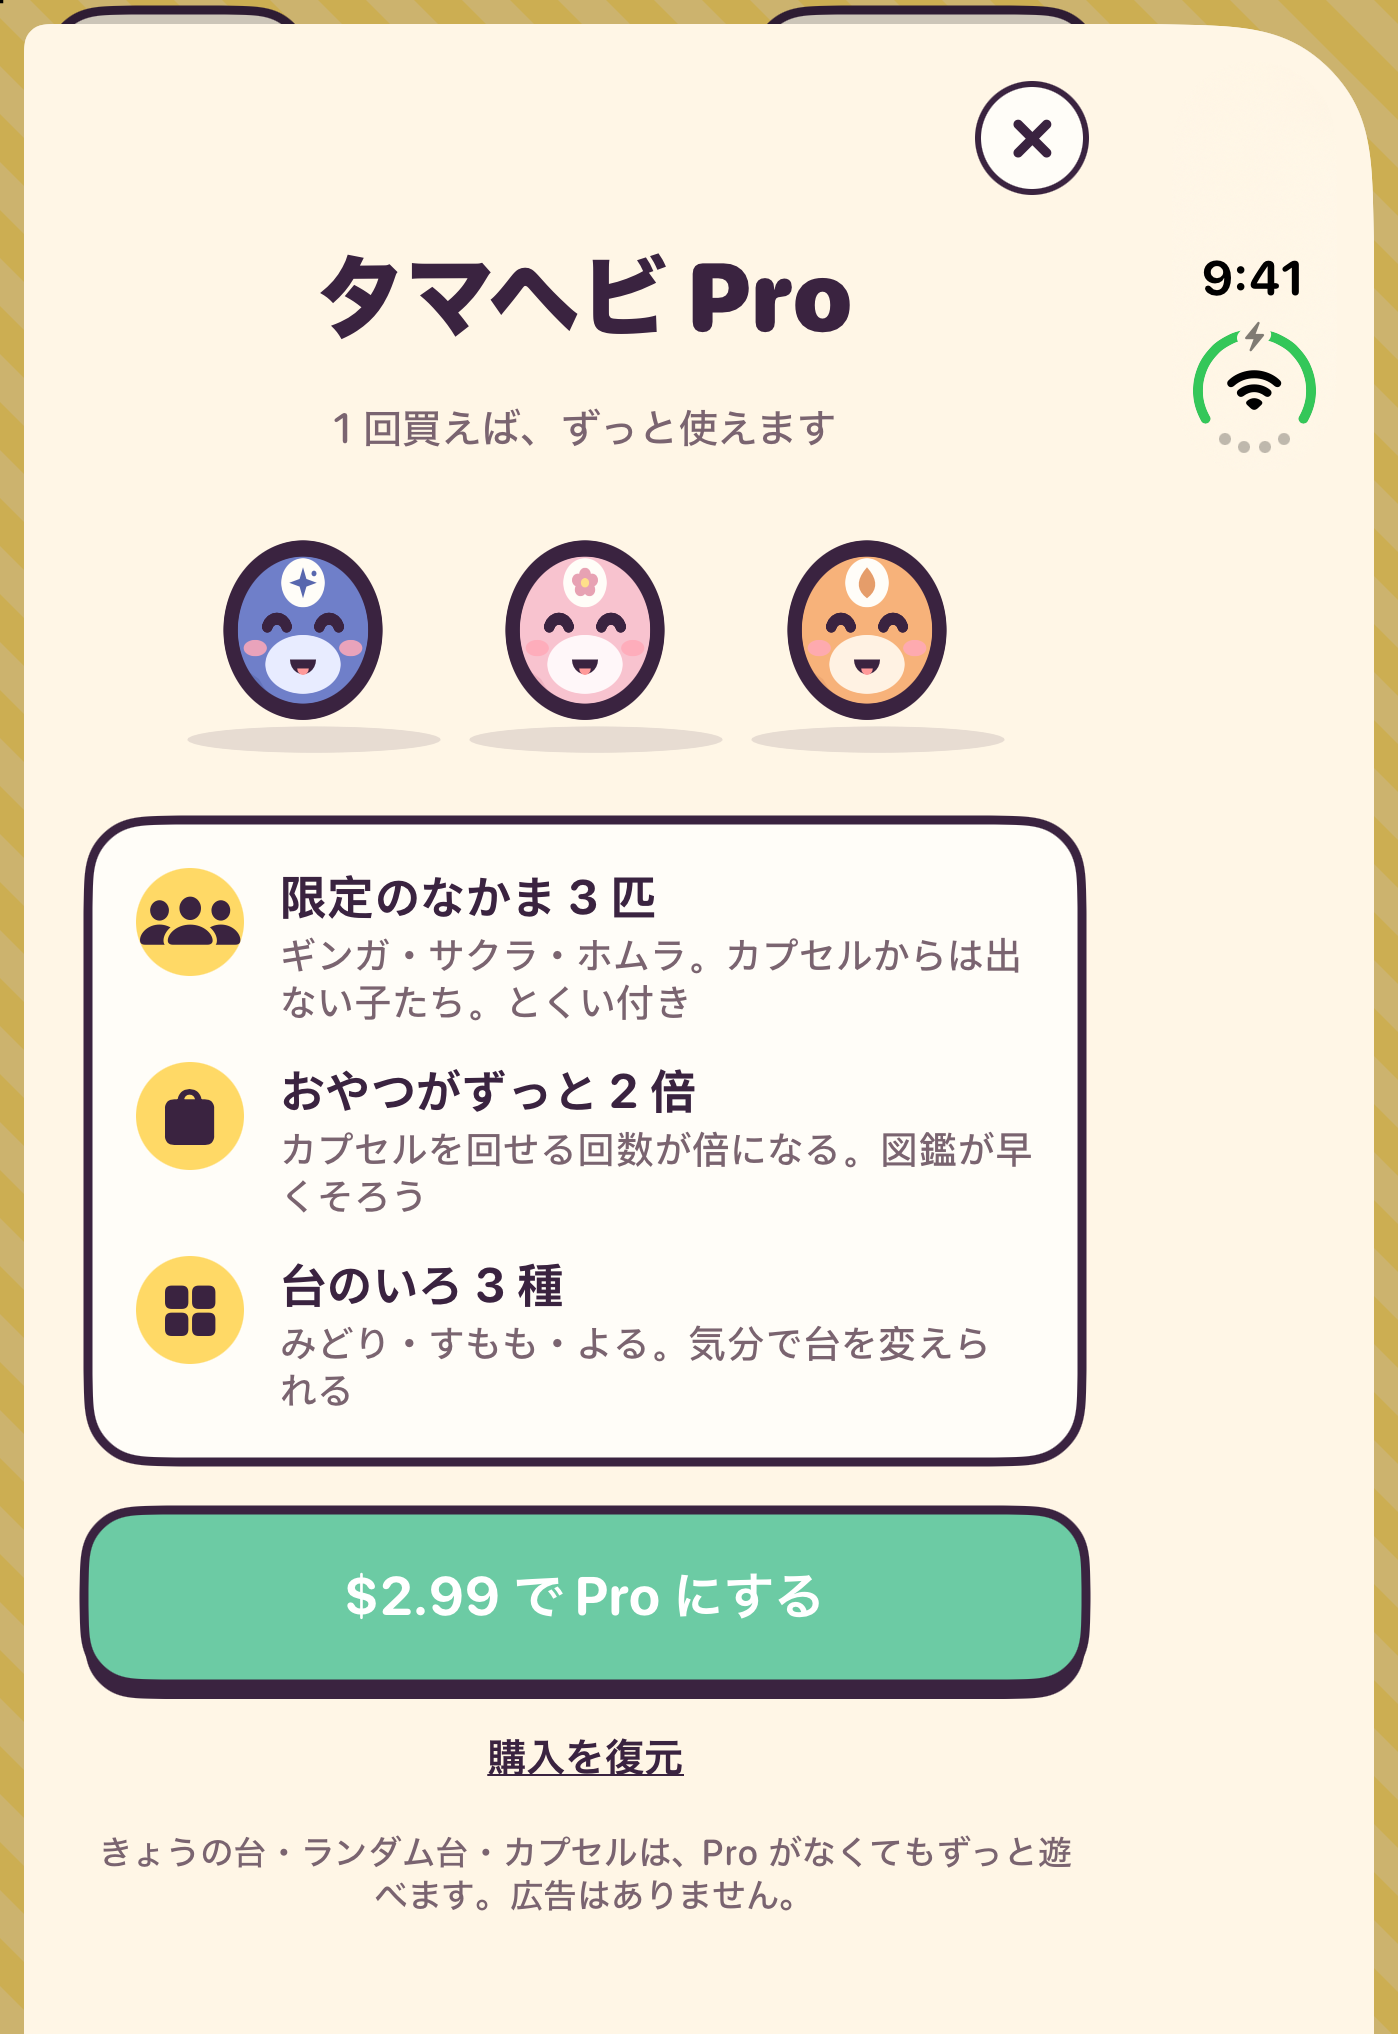
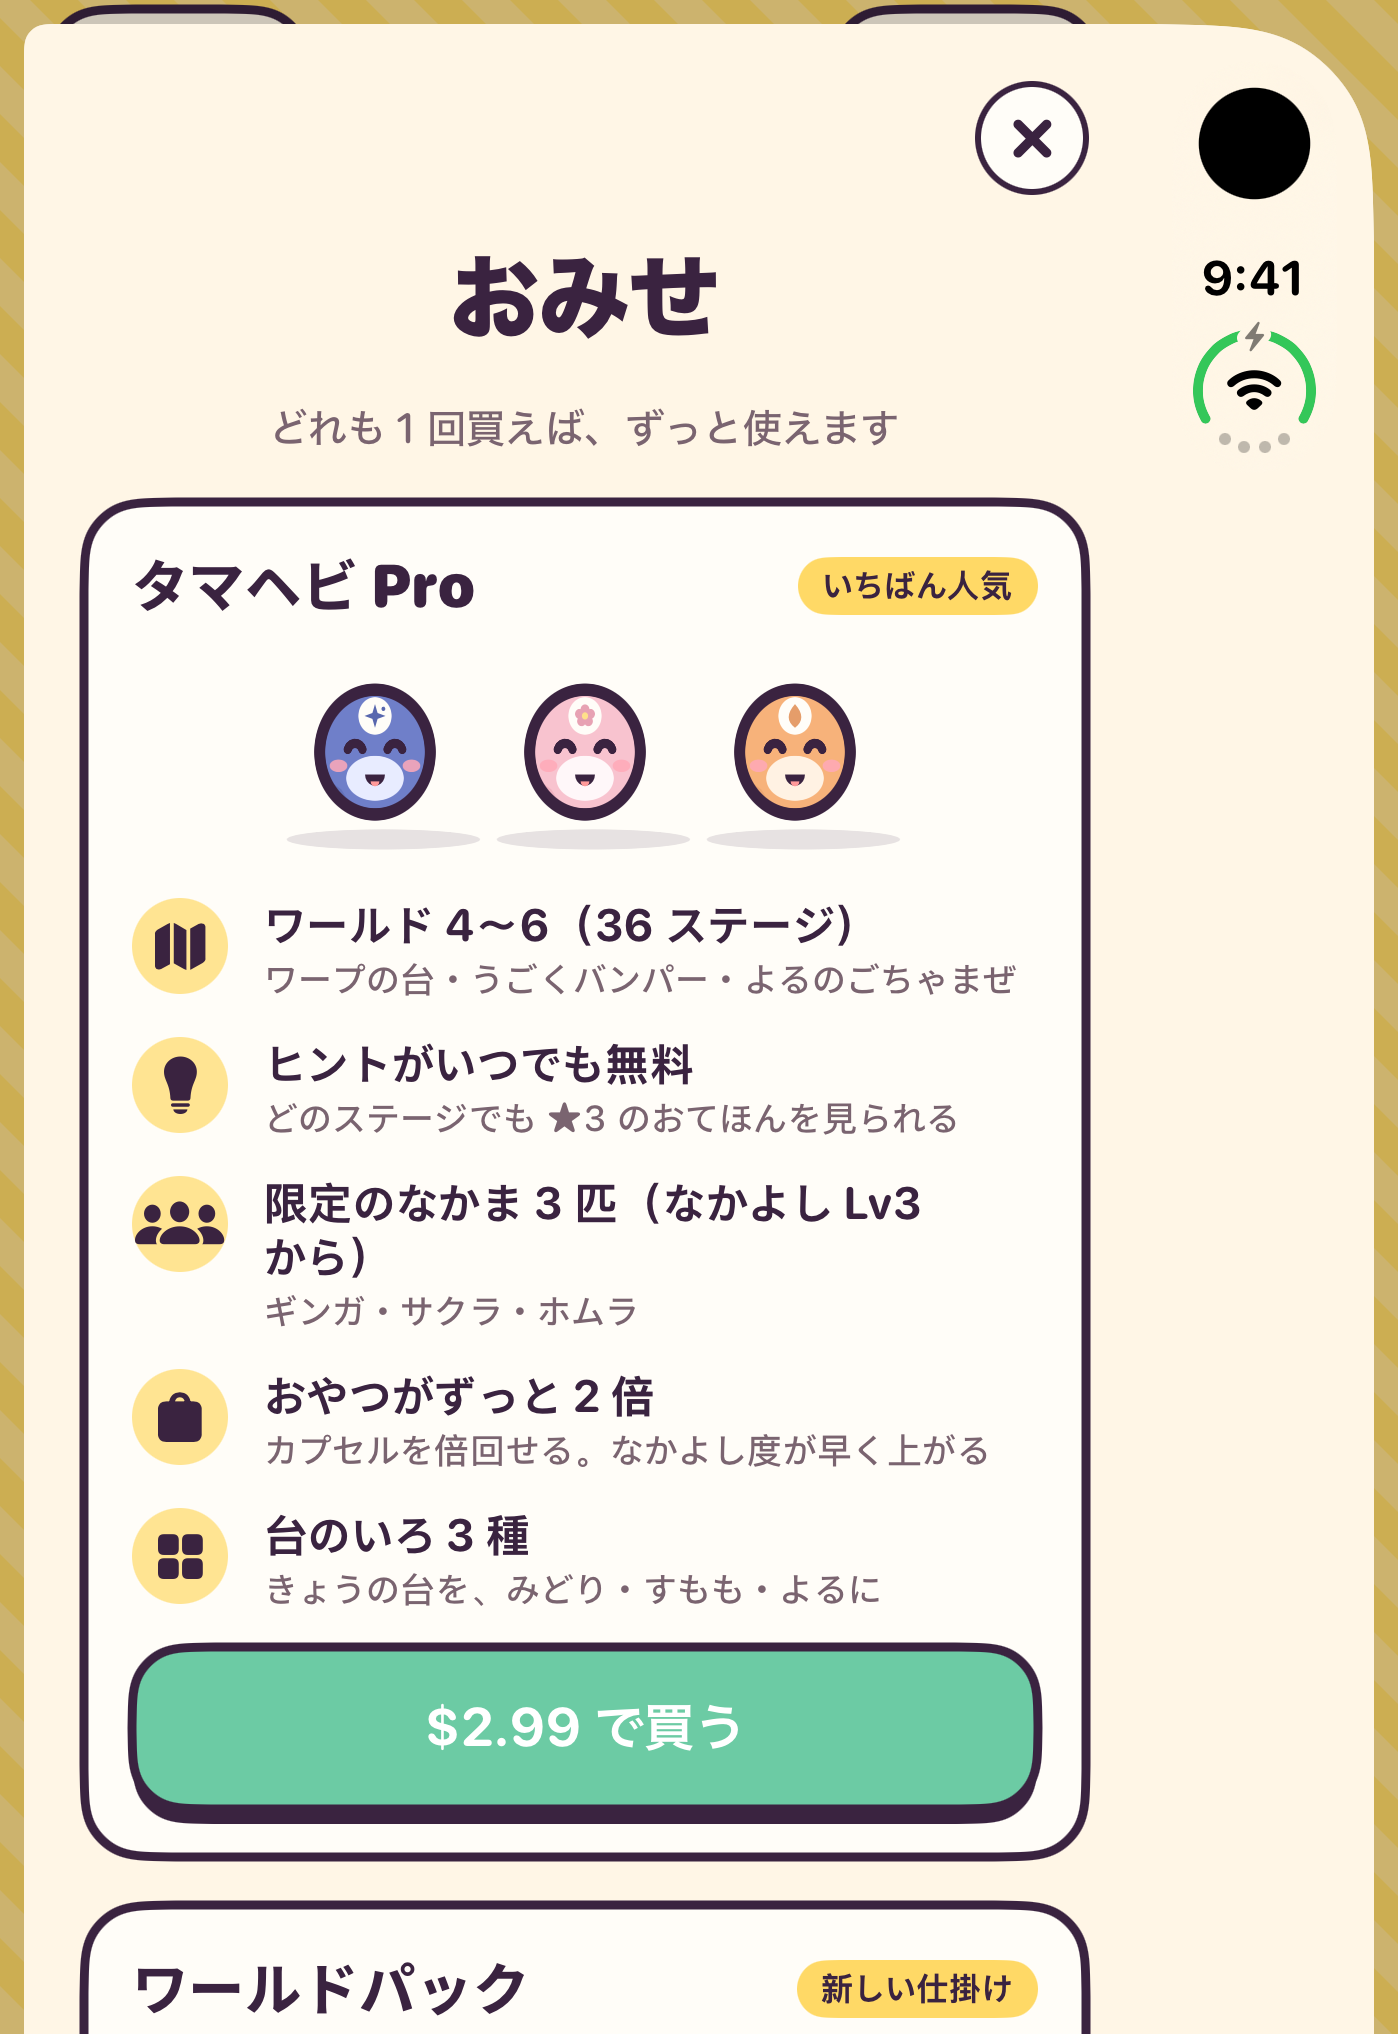
おてほんのとき、はじめの操作ガイドを重ねない。おだいの行を 1 行にする。審査用の画像をおみせの画面にする

diff --git a/App/Sources/UI/GameView.swift b/App/Sources/UI/GameView.swift
@@ -76,6 +76,7 @@ struct GameView: View {
                 .padding(.horizontal, 8).padding(.vertical, 2)
                 .background(Capsule().fill(Theme.ink))
             Text(s.goal.label).font(Theme.label(14)).foregroundStyle(Theme.ink)
+                .lineLimit(1).minimumScaleFactor(0.7).layoutPriority(1)
             Spacer(minLength: 4)
             if let g = game.goalText {
                 Text(g).font(Theme.label(13)).monospacedDigit().foregroundStyle(Theme.ink)
@@ -84,12 +85,14 @@ struct GameView: View {
             Text("★3: \(s.par3)打").font(Theme.body(12)).foregroundStyle(Theme.inkSoft)
             if game.hintMode {
                 if game.offPath {
-                    Button("おてほんからやりなおす") { app.replay() }
+                    Button("やりなおす") { app.replay() }
                         .font(Theme.label(12)).foregroundStyle(Theme.ink)
                         .padding(.horizontal, 8).padding(.vertical, 4)
                         .background(Capsule().fill(Color(hex: 0xF7A9C4)))
                 } else {
-                    Label("おてほん", systemImage: "lightbulb.fill").font(Theme.label(12)).foregroundStyle(Theme.ink)
+                    Image(systemName: "lightbulb.fill").font(.system(size: 13, weight: .bold)).foregroundStyle(Theme.ink)
+                        .frame(width: 30, height: 30)
+                        .accessibilityLabel("おてほん中")
                         .padding(.horizontal, 8).padding(.vertical, 4)
                         .background(Capsule().fill(Color(hex: 0xF7A9C4).opacity(0.6)))
                 }
@@ -194,7 +197,7 @@ struct TableCanvas: View {
             drawPops(&ctx)
             if let a = aim { drawGauge(&ctx, power: a.power, rules: rules) }
             if let h = game.hintShot, aim != nil { drawGaugeTarget(&ctx, power: h.power, rules: rules) }
-            if game.engine.shotsTaken == 0, !game.isAiming, !game.engine.isMoving { drawHint(&ctx) }
+            if game.engine.shotsTaken == 0, !game.hintMode, !game.isAiming, !game.engine.isMoving { drawHint(&ctx) }
         }
     }
 
